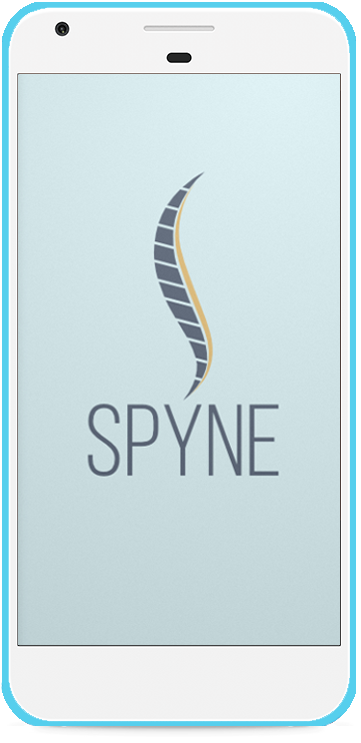
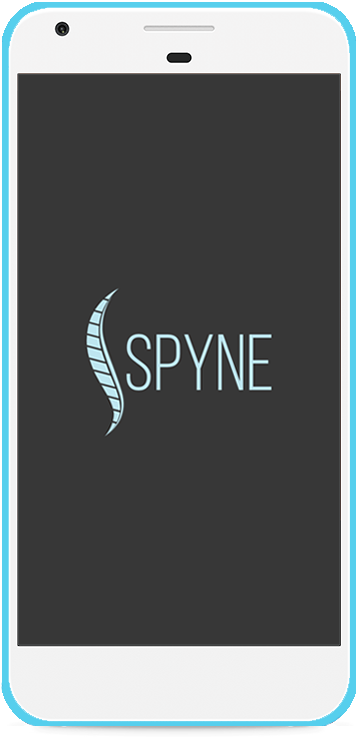
fixed fonts

diff --git a/css/style.css b/css/style.css
@@ -7,7 +7,7 @@
 * {
   margin: 0px;
   padding: 0px;
-  font-family: "Bebas", "sans-serif";
+  font-family: "Montserrat", "sans-serif";
 }
 
 
